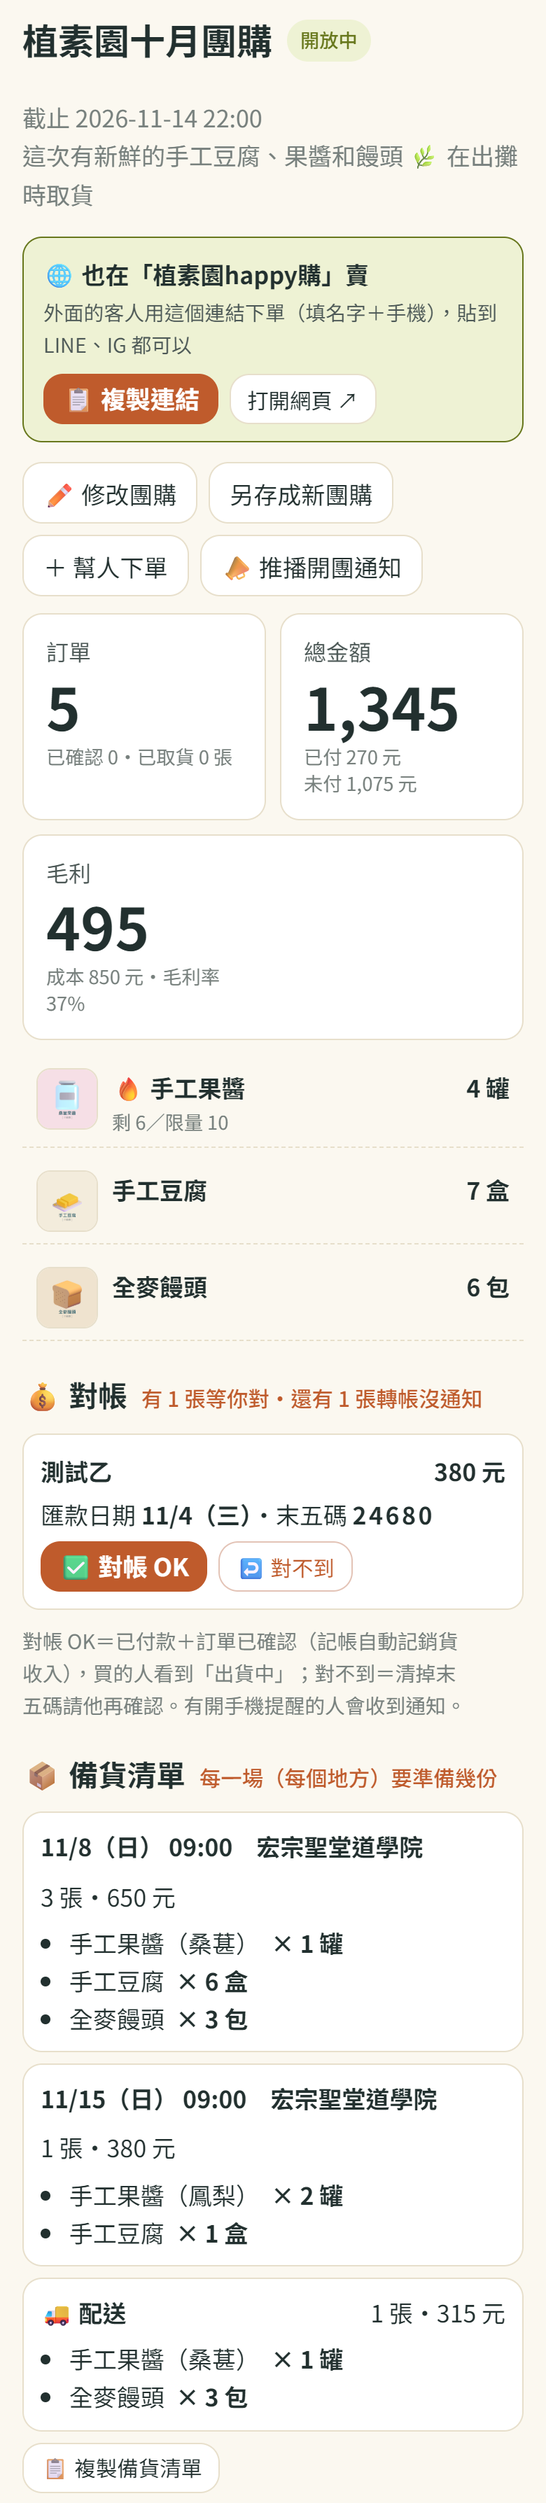
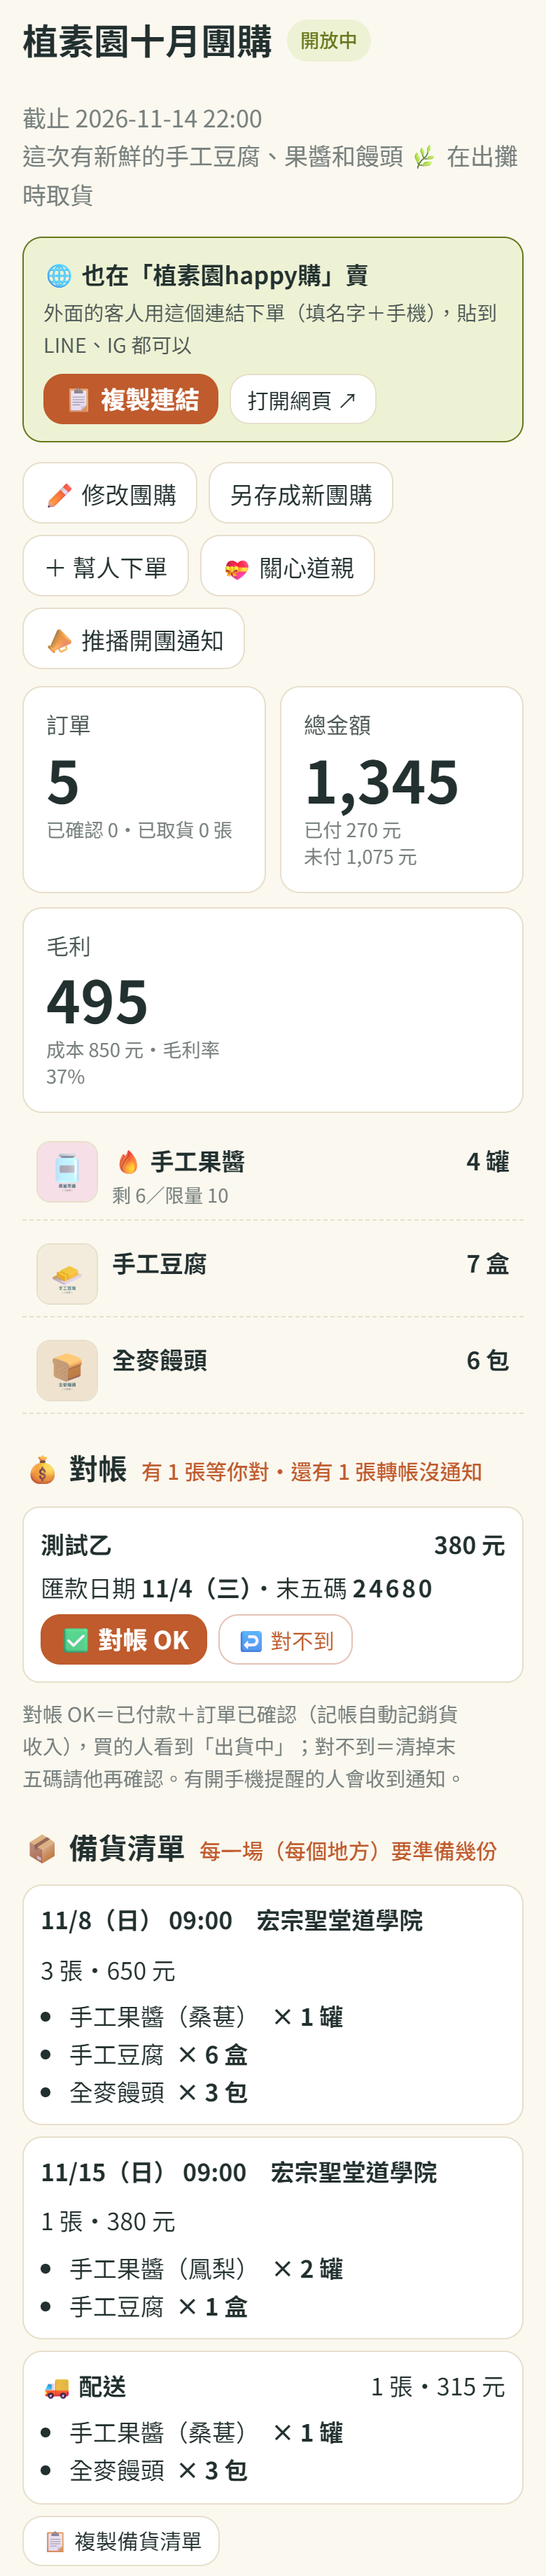
團購頁加「💝 關心道親」：只列這次團購的商品，記成商品減少的贈送；常見問題、截圖

diff --git a/js/admin-shop.js b/js/admin-shop.js
@@ -31,6 +31,8 @@
   const pickupText = (p) => p ? `${Fmt.shortDate(p.date)}${p.startTime ? ' ' + p.startTime : ''}　${p.location || p.name}` : '（場次已拿掉）';
 
   function show(body, guard, sub) {
+    const gm = String(sub || '').match(/^shop\/stock\/gift\/([^/?]+)/); // 💝 關心道親：這次團購的商品，出貨方式＝贈送（2026/11/4）
+    if (gm) return showStockForm(body, guard, 'out', decodeURIComponent(gm[1]));
     const sm = String(sub || '').match(/^shop\/stock\/(in|out)/);
     if (sm) return showStockForm(body, guard, sm[1]);
     // 報表、出攤銷售統計表、匯入 Excel（js/admin-stock.js）
@@ -243,15 +245,20 @@
 
   // ---------- ➕ 商品增加／➖ 商品減少 ----------
 
-  async function showStockForm(body, guard, type) {
+  async function showStockForm(body, guard, type, giftGroup) {
     if (!canEdit()) { body.innerHTML = '<p class="panel-empty">這個帳號只能看。</p>'; return; }
     body.innerHTML = '<p class="panel-empty">載入中⋯</p>';
     let st;
-    try { st = await Api.admin('adminShopStock', {}, true); } catch (e) { guard(e, body); return; }
+    let gift = null; // 💝 關心道親：{ id, name, ids }（只列這次團購的商品，出貨方式預設贈送）
+    try {
+      st = await Api.admin('adminShopStock', {}, true);
+      if (giftGroup) { const g = (await Api.admin('adminShopGroup', { id: giftGroup }, true)).group; gift = { id: g.id, name: g.name, ids: g.items.map((it) => it.id) }; }
+    } catch (e) { guard(e, body); return; }
     const isIn = type === 'in';
     const methods = isIn ? st.inMethods : st.outMethods;
-    let products = st.products.filter((p) => p.active || !isIn);
-    const blank = () => ({ id: '', option: '', qty: '', cost: '', price: '', amount: '', method: isIn ? '買進' : '售出', note: '' });
+    let products = st.products.filter((p) => (p.active || !isIn) && (!gift || gift.ids.includes(p.id)));
+    const backTo = gift ? `#/admin/shop/g/${encodeURIComponent(gift.id)}` : '#/admin/shop';
+    const blank = () => ({ id: '', option: '', qty: '', cost: '', price: '', amount: '', method: isIn ? '買進' : gift ? '贈送' : '售出', note: gift ? '關心道親' : '' });
     const variantStock = (p, o) => { const v = (p.variants || []).find((x) => x.option === o); return v ? v.stock : 0; };
     let date = st.today; // 這次的日期（可以補登以前的）
     let pay = '零用金'; // 買進怎麼付（記帳自動記進貨）
@@ -268,9 +275,9 @@
     };
     const draw = (err) => {
       body.innerHTML = `
-        <a class="btn back-btn" href="#/admin/shop">‹ 回團購</a>
-        <h2>${isIn ? '➕ 商品增加（進貨）' : '➖ 商品減少（出貨）'}</h2>
-        <p class="hint">${isIn ? '一次可以填好幾樣。填的成本價、售價會變成商品現在的價格。' : '一次可以填好幾樣。大家在團購下單、取貨打勾的，會自動記「售出」，不用再填。'}</p>
+        <a class="btn back-btn" href="${backTo}">‹ 回${gift ? esc(gift.name) : '團購'}</a>
+        <h2>${isIn ? '➕ 商品增加（進貨）' : gift ? '💝 關心道親' : '➖ 商品減少（出貨）'}</h2>
+        <p class="hint">${isIn ? '一次可以填好幾樣。填的成本價、售價會變成商品現在的價格。' : gift ? `送出去關心的，從庫存扣掉，記成「商品減少」的<b>贈送</b>（進銷存算在其他減，不算營業額）。只列「${esc(gift.name)}」的商品；備註可以寫送給誰。` : '一次可以填好幾樣。大家在團購下單、取貨打勾的，會自動記「售出」，不用再填。'}</p>
         <form class="admin-form stock-form" novalidate>
           <label class="form-row stock-date"><span>日期（補登以前的可以改）</span><input class="input" type="date" name="date" max="${esc(st.today)}" value="${esc(date)}"></label>
           ${rows.map((r, i) => { const p = products.find((x) => x.id === r.id); return `
@@ -298,7 +305,7 @@
           ${err ? `<div class="form-error">${err}</div>` : ''}
           <div class="admin-actions">
             <button type="submit" class="btn btn-primary">存檔（${rows.filter((r) => r.id).length} 樣）</button>
-            <a class="btn" href="#/admin/shop">返回</a>
+            <a class="btn" href="${backTo}">返回</a>
           </div>
         </form>`;
       bindZoom(body);
@@ -349,8 +356,8 @@
           AdminPage.clearMemo();
           state.tab = 'stock';
           flash = res.warnings.length ? AdminPage.notice('error', '已存檔，請注意', res.warnings.join('；'))
-            : AdminPage.notice('success', isIn ? '進貨記好了' : '出貨記好了', `共 ${res.count} 樣${res.promo && res.promo.discount ? `；🏷 買多優惠扣了 ${res.promo.discount} 元（${res.promo.names.join('、')}）` : ''}`);
-          location.hash = '#/admin/shop';
+            : AdminPage.notice('success', isIn ? '進貨記好了' : gift ? '💝 關心道親記好了' : '出貨記好了', `共 ${res.count} 樣${res.promo && res.promo.discount ? `；🏷 買多優惠扣了 ${res.promo.discount} 元（${res.promo.names.join('、')}）` : ''}`);
+          location.hash = backTo;
         } catch (e) {
           Busy.hide();
           if (e.code === 'UNAUTHORIZED') { guard(e); return; }
@@ -848,6 +855,7 @@
         <a class="btn" href="#/admin/shop/edit/${encodeURIComponent(g.id)}">✏ 修改團購</a>
         <a class="btn" href="#/admin/shop/new?from=${encodeURIComponent(g.id)}">另存成新團購</a>
         ${g.link ? '' : '<button type="button" class="btn" data-admin-order>＋ 幫人下單</button>'}
+        <a class="btn" href="#/admin/shop/stock/gift/${encodeURIComponent(g.id)}">💝 關心道親</a>
         ${g.status !== '結束' && !g.closed ? '<button type="button" class="btn" data-push-open>📣 推播開團通知</button>' : ''}
         ${s.orders ? '' : '<button type="button" class="btn btn-quiet-danger" data-delete>刪除這次團購</button>'}
       </div>` : ''}

diff --git a/index.html b/index.html
@@ -150,7 +150,7 @@
   <script src="js/admin-goals.js?v=20261016b"></script>
   <script src="js/admin-venue.js?v=20261102d"></script>
   <script src="js/admin-push.js?v=20261016b"></script>
-  <script src="js/admin-shop.js?v=20261104j"></script>
+  <script src="js/admin-shop.js?v=20261104k"></script>
   <script src="js/admin-stock.js?v=20261104b"></script>
   <script src="js/shop.js?v=20261104j"></script>
   <script src="js/tutorial.js?v=20261104d"></script>

diff --git a/docs/spec.md b/docs/spec.md
@@ -120,6 +120,7 @@
   - 「✅ 取貨名單」：依取貨場次列出每位的品項、金額、付款方式，可以勾「已取貨」「已付款」，寫備註；可以搜尋名字。
   - 「📋 複製」備貨清單、取貨名單（貼 LINE）。
   - 管理者可以幫人下單、改單、取消（不受截止限制），寫入操作紀錄。
+  - 「💝 關心道親」（2026/11/4，使用者要的，後台用語照使用者）：團購頁按鈕，打開「商品減少」，只列這次團購的商品，出貨方式預設「贈送」、備註預設「關心道親」；存好回到團購頁。
 - 統計：每次團購的金額、訂單數；「🌱 新朋友」也算團購第一次來的。
 
 **通知**
